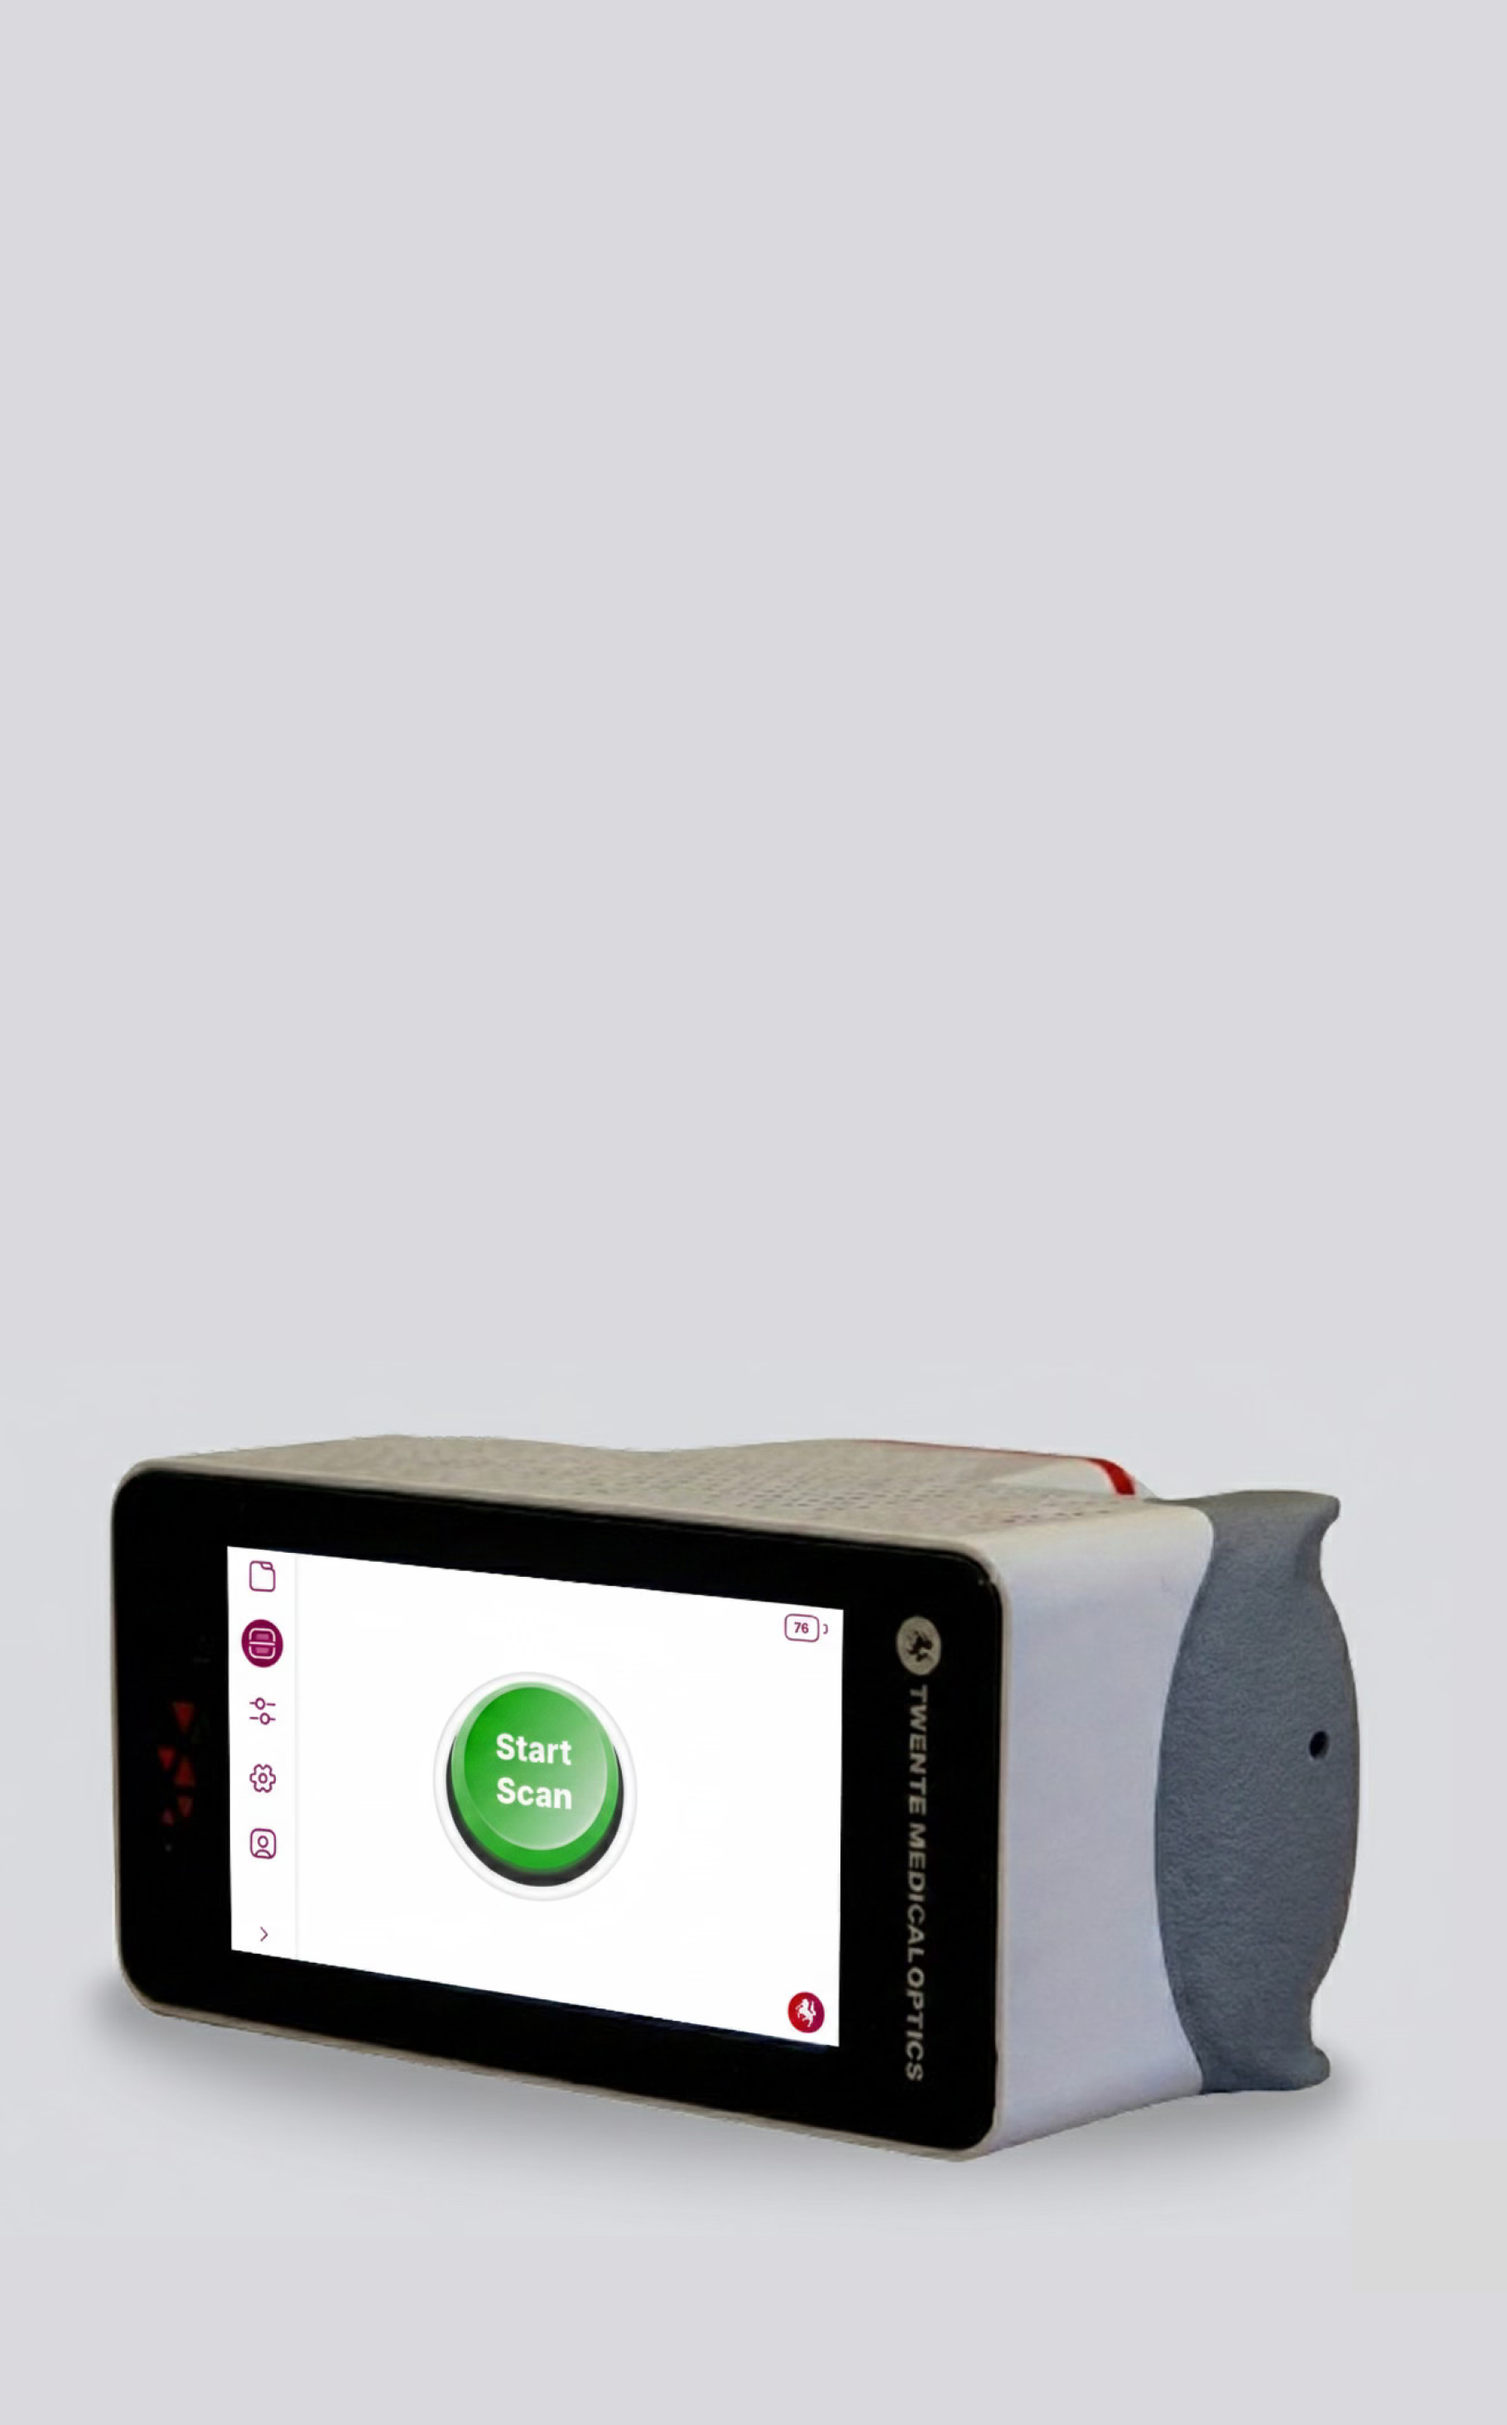
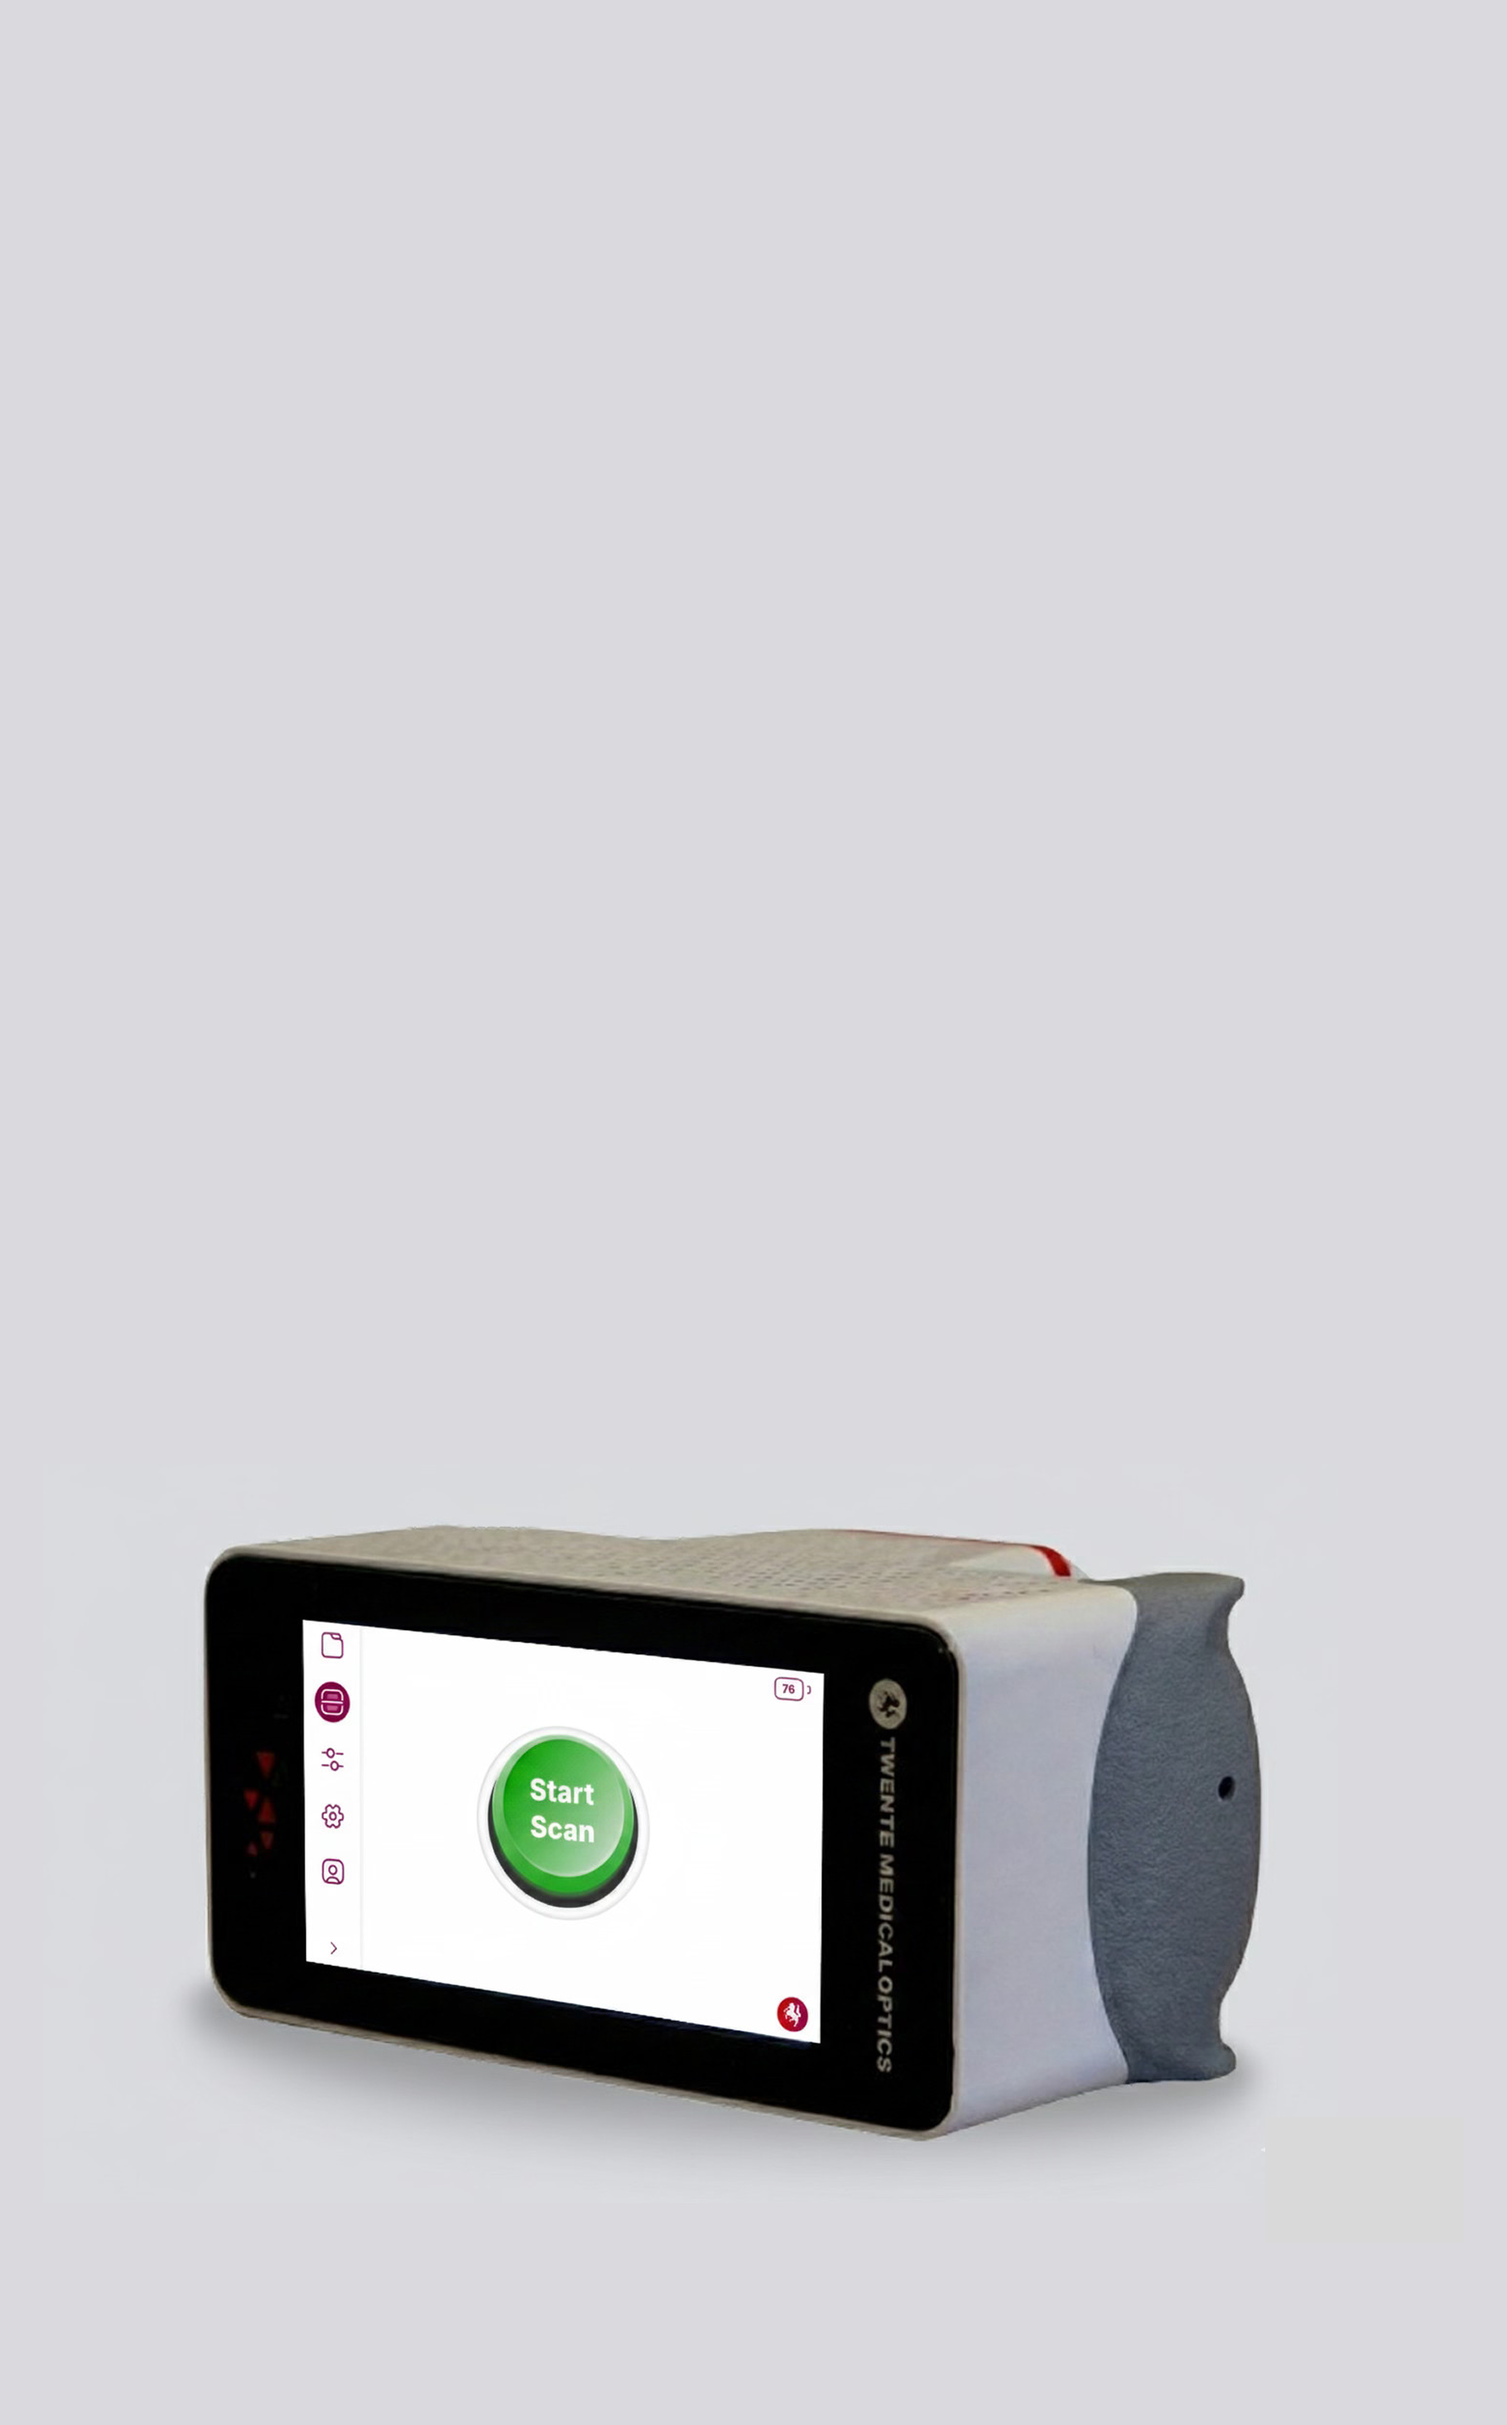
Standardize HAPI hero mobile asset and bump version to v=14

Changed region(s): [[0.0615, 0.5905, 0.9231, 0.9013]]

diff --git a/hapi.html b/hapi.html
@@ -1297,8 +1297,8 @@
     <section class="full-hero"
         style="position: relative; width: 100%; height: 100vh; overflow: hidden; margin: 0; padding: 0;">
         <picture style="width: 100%; height: 100%;">
-            <source srcset="hapi-hero-mobile.png?v=13" media="(max-width: 600px)">
-            <img src="HAPI-cover.png?v=13" alt="HAPI App Cover"
+            <source srcset="hapi-hero-mobile.png?v=14" media="(max-width: 600px)">
+            <img src="HAPI-cover.png?v=14" alt="HAPI App Cover"
                 style="width: 100%; height: 100%; object-fit: cover; object-position: right center; display: block;">
         </picture>
 
